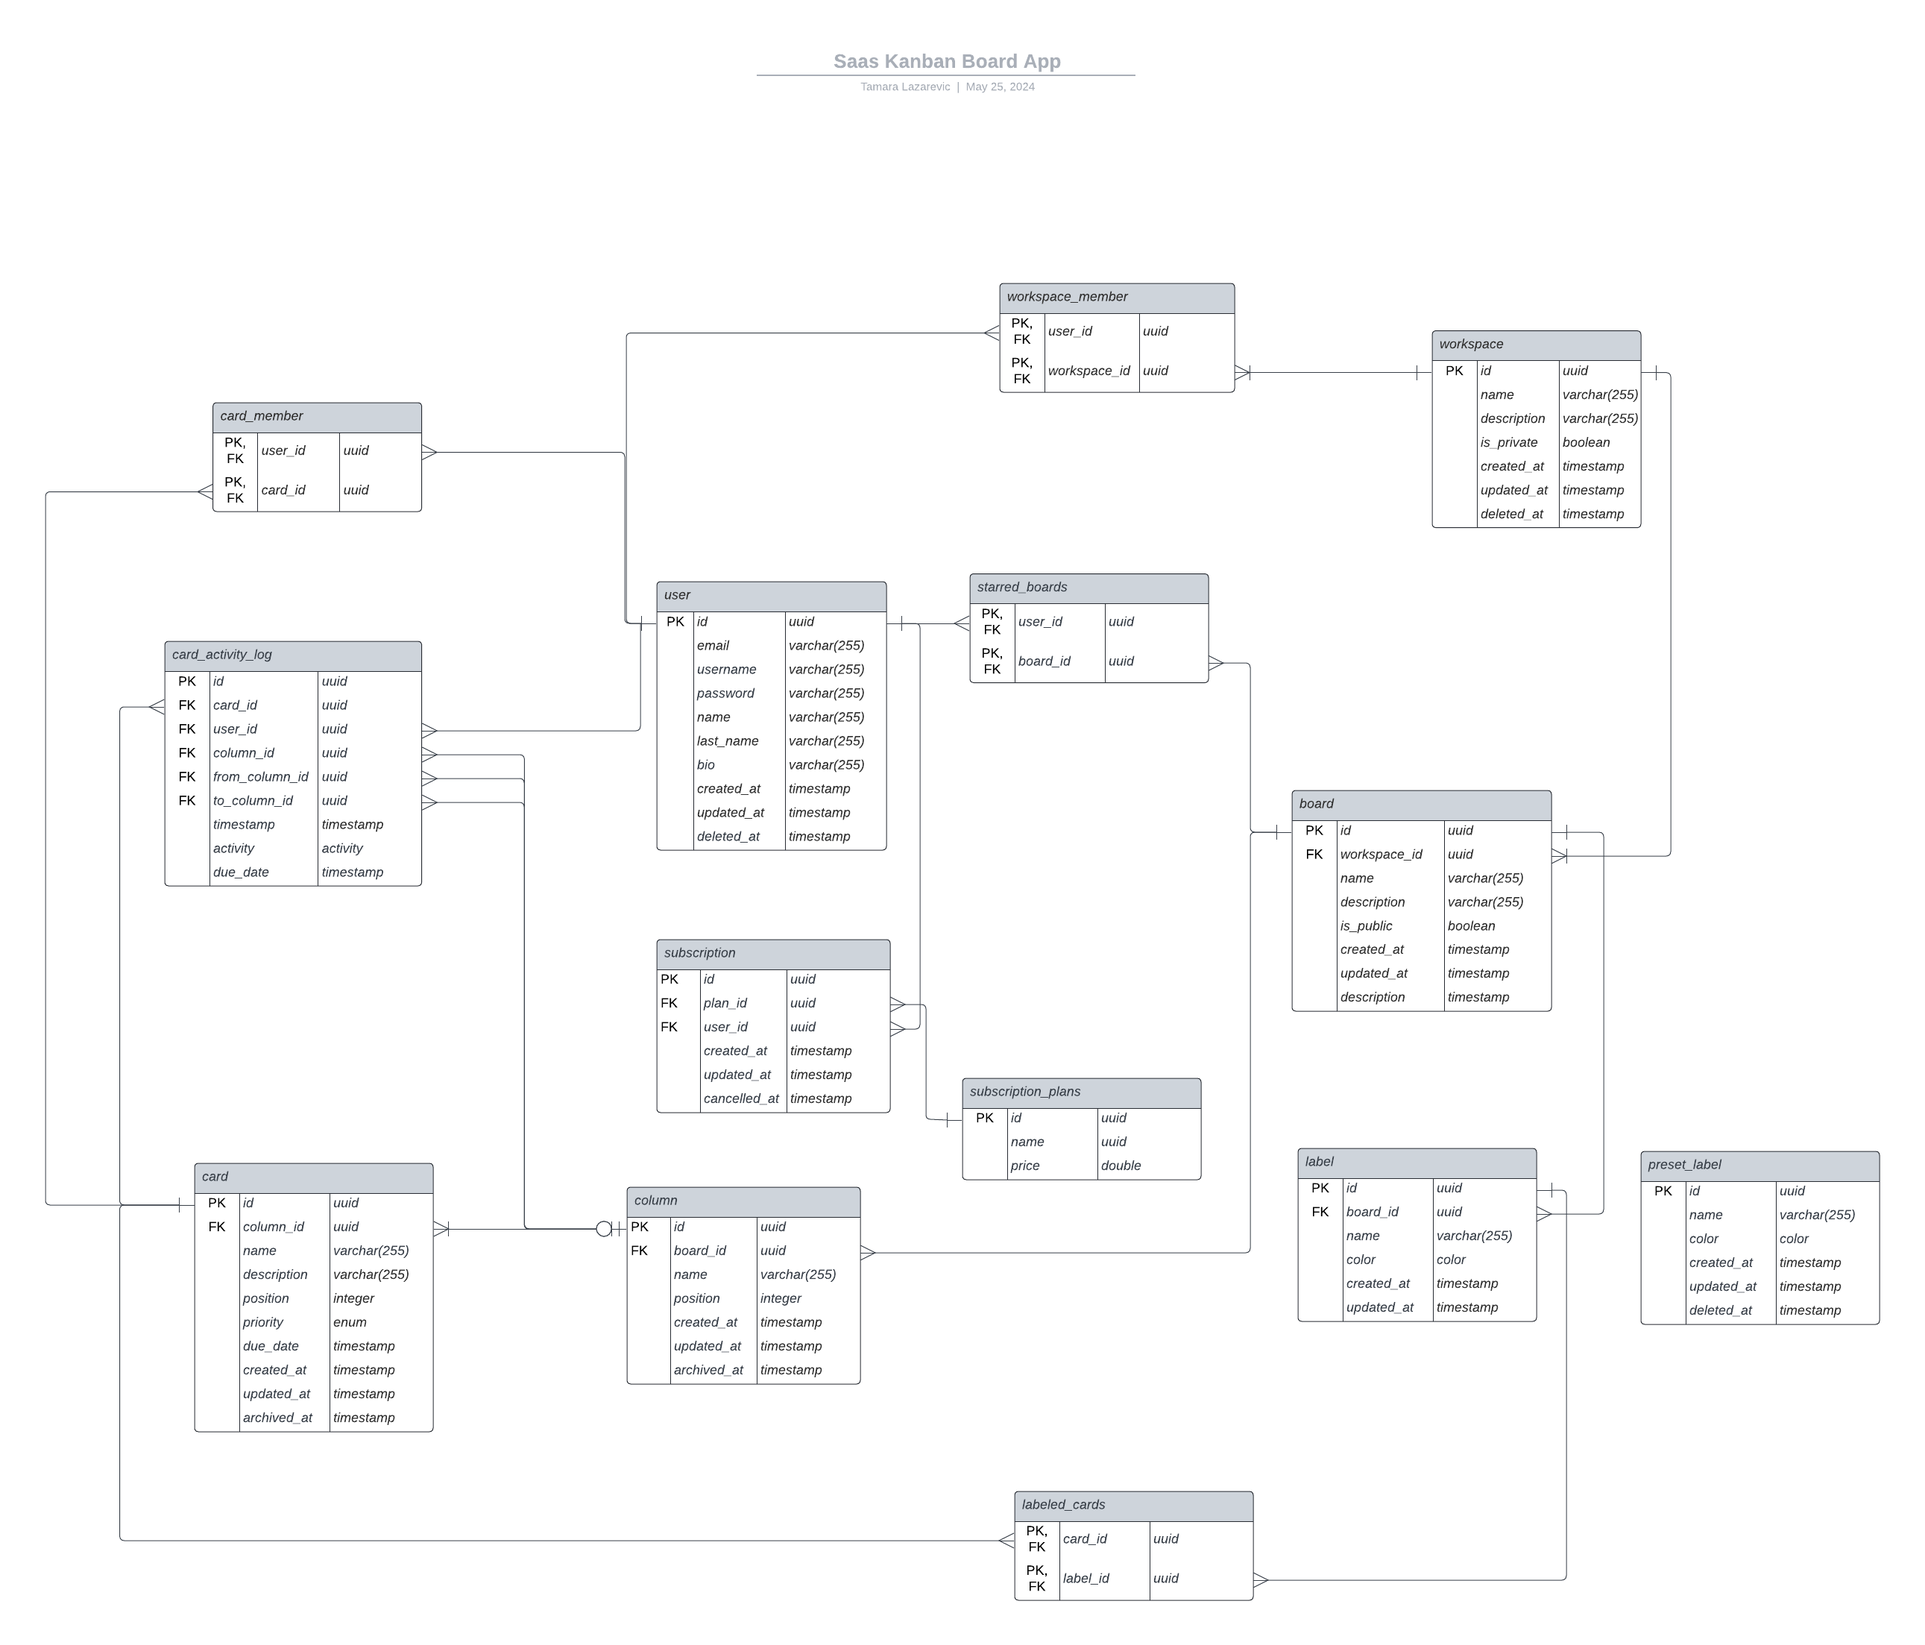
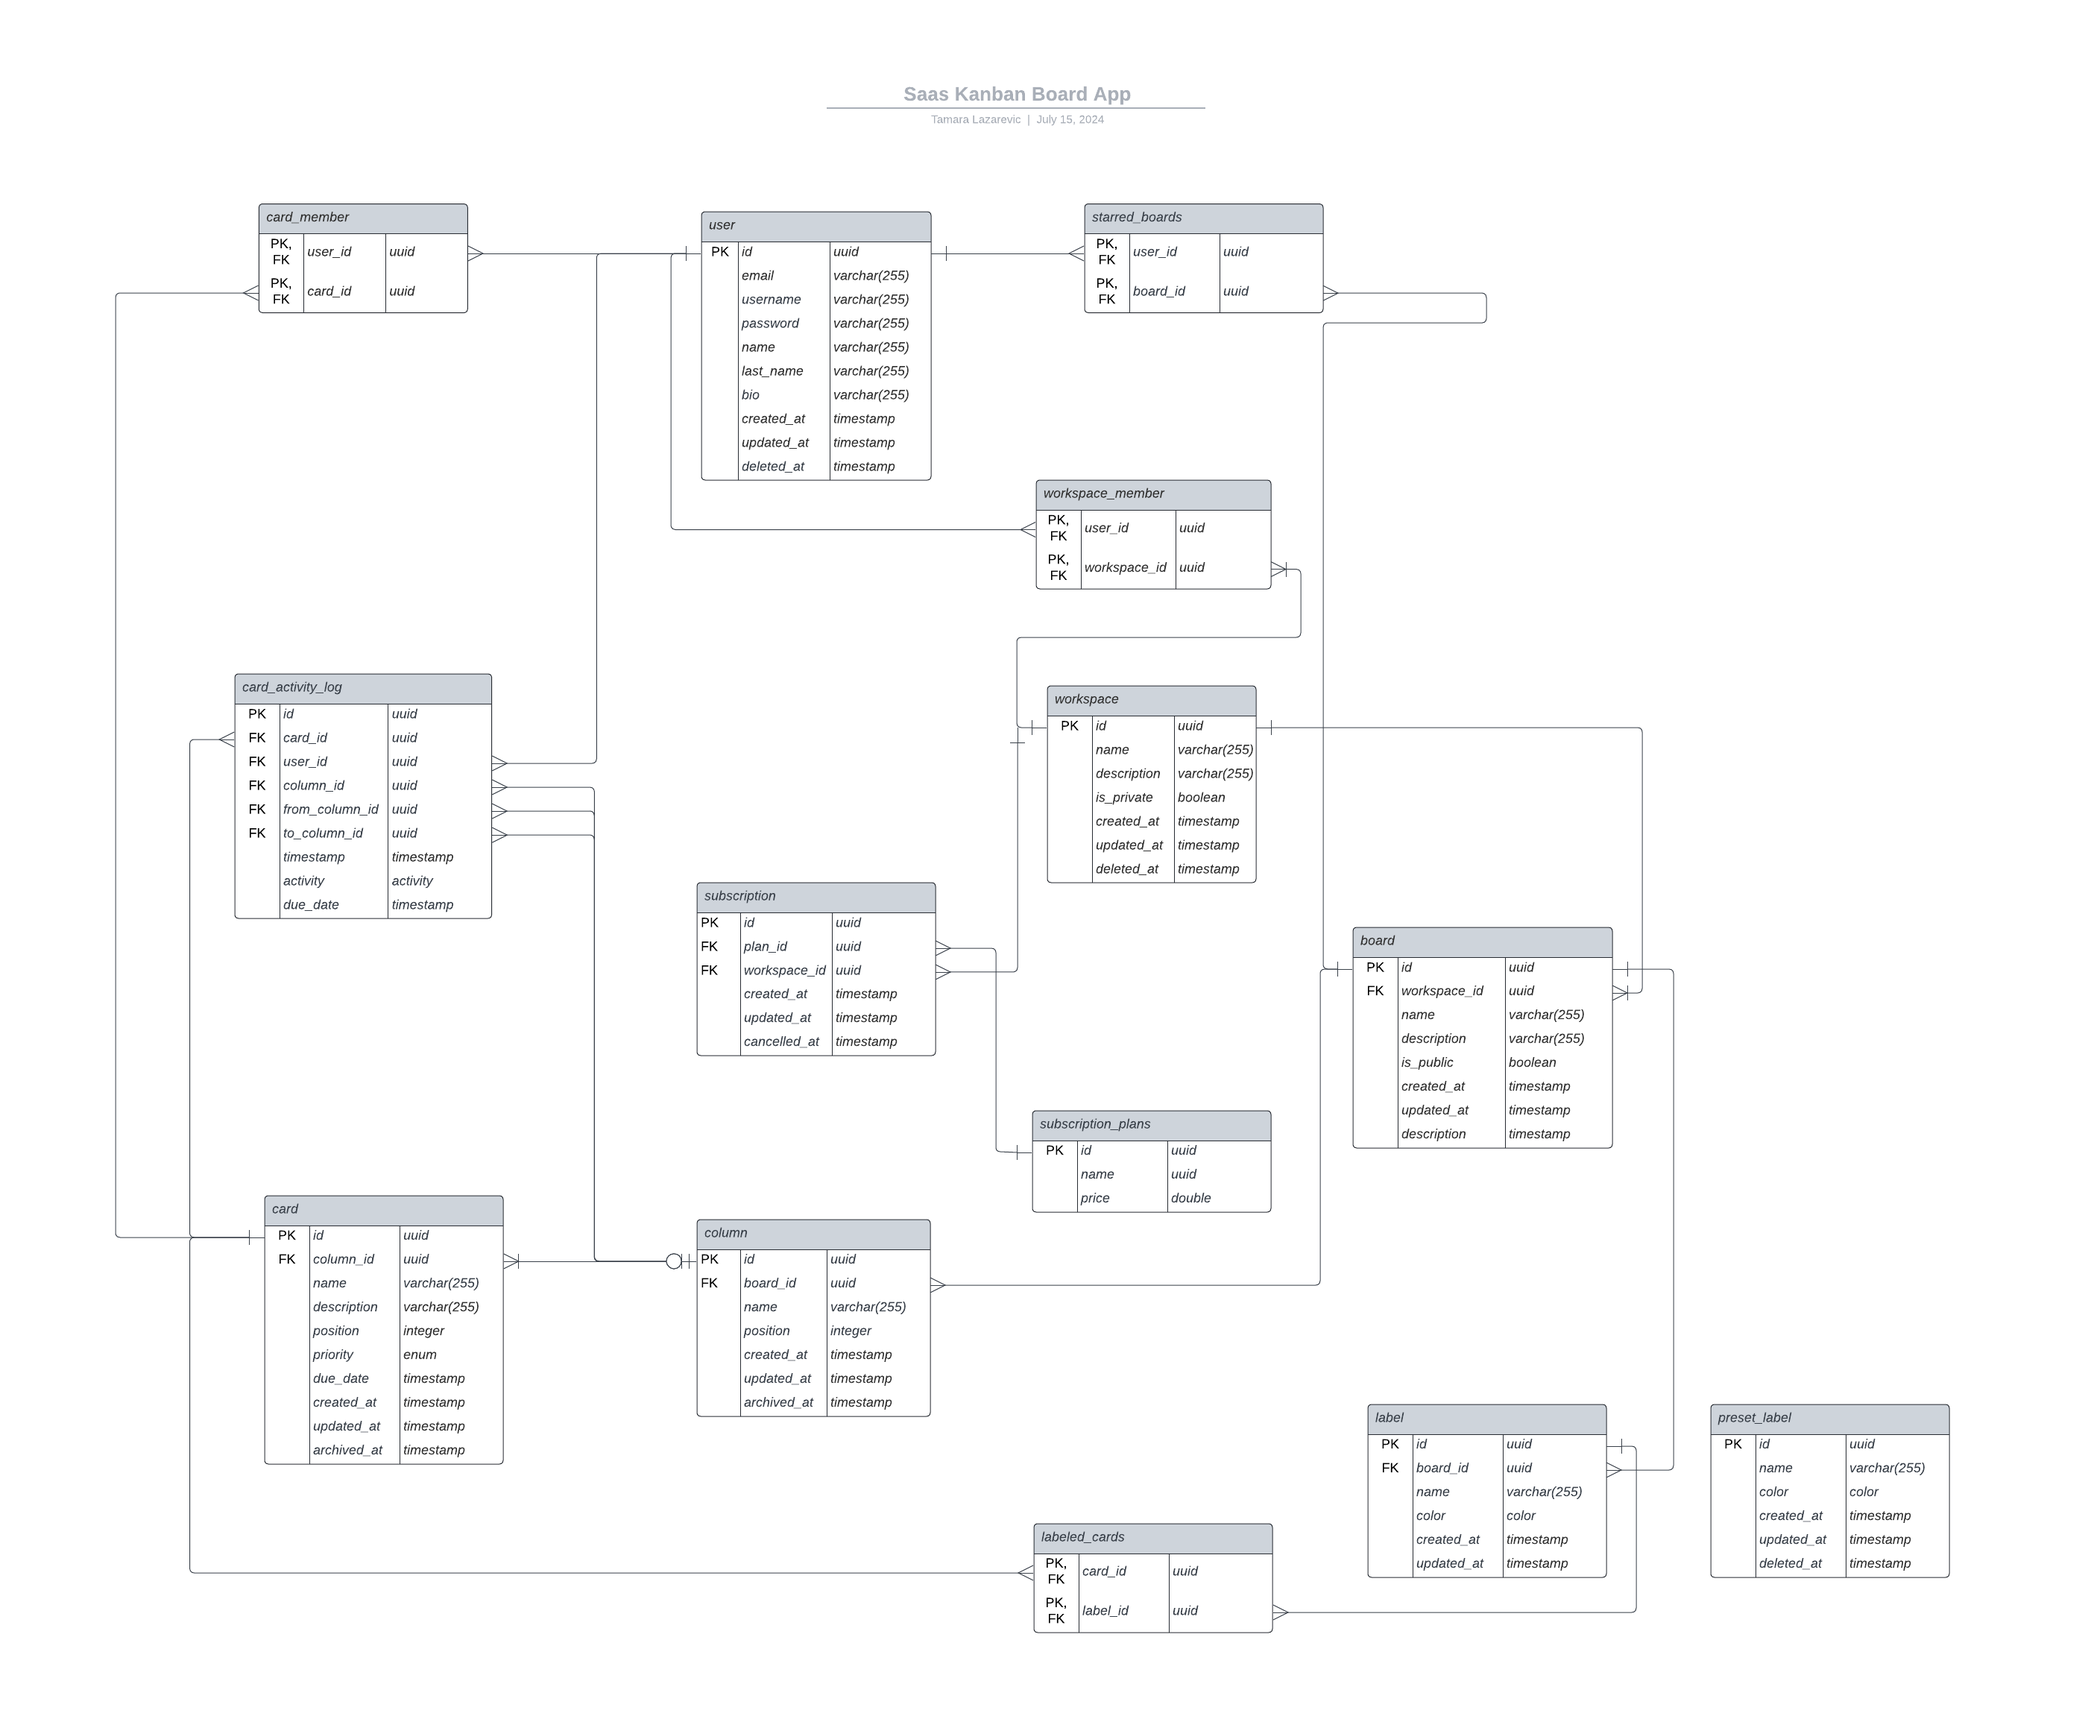
Update pricing (#33)
* Update subscription logic

* Update schema

* Remove temp file

* Remove logs

diff --git a/saas-app/app/kandy/routes/subscriptions.js b/saas-app/app/kandy/routes/subscriptions.js
@@ -5,29 +5,31 @@ var express = require('express');
 var router = express.Router();
 
 
-router.get('/', async function (req, res, next) {
+router.get('/workspace/:workspace_id', async function (req, res, next) {
     var userId = req.user.id
+    var workspaceId = req.params.workspace_id
 
-    var subsciption = await prisma.subscriptions.findFirstOrThrow({
-        where: { user_id: userId, cancelled_at: null }
+    var subscription = await prisma.subscriptions.findFirstOrThrow({
+        where: { workspace_id: workspaceId, cancelled_at: null }
 
     })
-    res.render('subscriptions', { subsciptionPlanId: subsciption.plan_id });
+
+    res.render('subscriptions', { subscriptionPlanId: subscription.plan_id, workspaceId: workspaceId });
 });
 
-router.get('/update/:selected_plan', async function (req, res, next) {
+router.get('/update/:selected_plan/workspace/:workspace_id', async function (req, res, next) {
     var userId = req.user.id
     var selectedPlan = req.params.selected_plan
+    var workspaceId = req.params.workspace_id
 
     try {
 
         var currentSubscription = await prisma.subscriptions.findFirstOrThrow({
-            where: { user_id: userId, cancelled_at: null }
+            where: { workspace_id: workspaceId, cancelled_at: null }
 
         })
 
         if (selectedPlan == currentSubscription.plan_id) {
-            console.log('plan already active')
             res.locals.errors = ["The selected plan is already active."]
             res.status(400).render('subscriptions', { subsciptionPlanId: currentSubscription.plan_id })
             return
@@ -40,11 +42,10 @@ router.get('/update/:selected_plan', async function (req, res, next) {
                     where: { id: currentSubscription.id },
                     data: { cancelled_at: new Date() }
                 }),
-                prisma.subscriptions.create({ data: { id: uuidv4(), user_id: userId, plan_id: selectedPlan } })
-
+                prisma.subscriptions.create({ data: { id: uuidv4(), workspace_id: workspaceId, plan_id: selectedPlan } })
             ])
 
-            res.redirect('/subscriptions');
+            res.redirect('/subscriptions/workspace/' + workspaceId);
         }
 
     } catch (error) {

diff --git a/saas-app/app/kandy/routes/workspaces.js b/saas-app/app/kandy/routes/workspaces.js
@@ -39,7 +39,7 @@ router.get('/:id', async (req, res, next) => {
         }
       }
     })
-    res.render('workspace', { workspace: workspace });
+    res.render('workspace', { workspace: workspace, currentPage: 'workspace' });
   } catch (error) {
     console.log('Error retrieving workspaces:', error)
     res.status(500).json({ error: 'Internal Server Error' });
@@ -70,31 +70,42 @@ router.post('/', async (req, res) => {
   const userId = req.user.id;
 
   var name = req.body["name"]
-  var decription = req.body["description"]
+  var description = req.body["description"]
   var privacy = req.body["privacy"] ? true : false
   var id = uuidv4()
 
   try {
-    await prisma.workspaces.create({
-      data: {
-        id: id,
-        name: name,
-        description: decription,
-        is_private: privacy,
-        workspace_members: {
-          create: {
-            users: {
-              connect: {
-                id: userId
+    await prisma.$transaction(async (prisma) => {
+      const createdWorkspace = await prisma.workspaces.create({
+        data: {
+          id: id,
+          name: name,
+          description: description,
+          is_private: privacy,
+          workspace_members: {
+            create: {
+              users: {
+                connect: {
+                  id: userId
+                }
               }
             }
           }
         }
+      });
 
-      }
-    })
+      await prisma.subscriptions.create({
+        data: {
+          id: uuidv4(),
+          plan_id: 'c037947d-22a7-422c-8147-c131d9a66c62',
+          workspace_id: createdWorkspace.id,
+        }
+      });
+
+      return createdWorkspace;
+    });
+
     res.redirect('/workspaces');
-
   } catch (error) {
     console.error('Error creating the workspace:', error);
     res.status(500).json({ error: 'Internal Server Error' });

diff --git a/saas-app/app/kandy/routes/auth.js b/saas-app/app/kandy/routes/auth.js
@@ -156,14 +156,6 @@ router.post(
                 }
             });
 
-            await prisma.subscriptions.create({
-                data: {
-                    id: uuidv4(),
-                    plan_id: 'c037947d-22a7-422c-8147-c131d9a66c62',
-                    user_id: newUser.id,
-                }
-            })
-
             const payload = {
                 user: {
                     id: newUser.id
